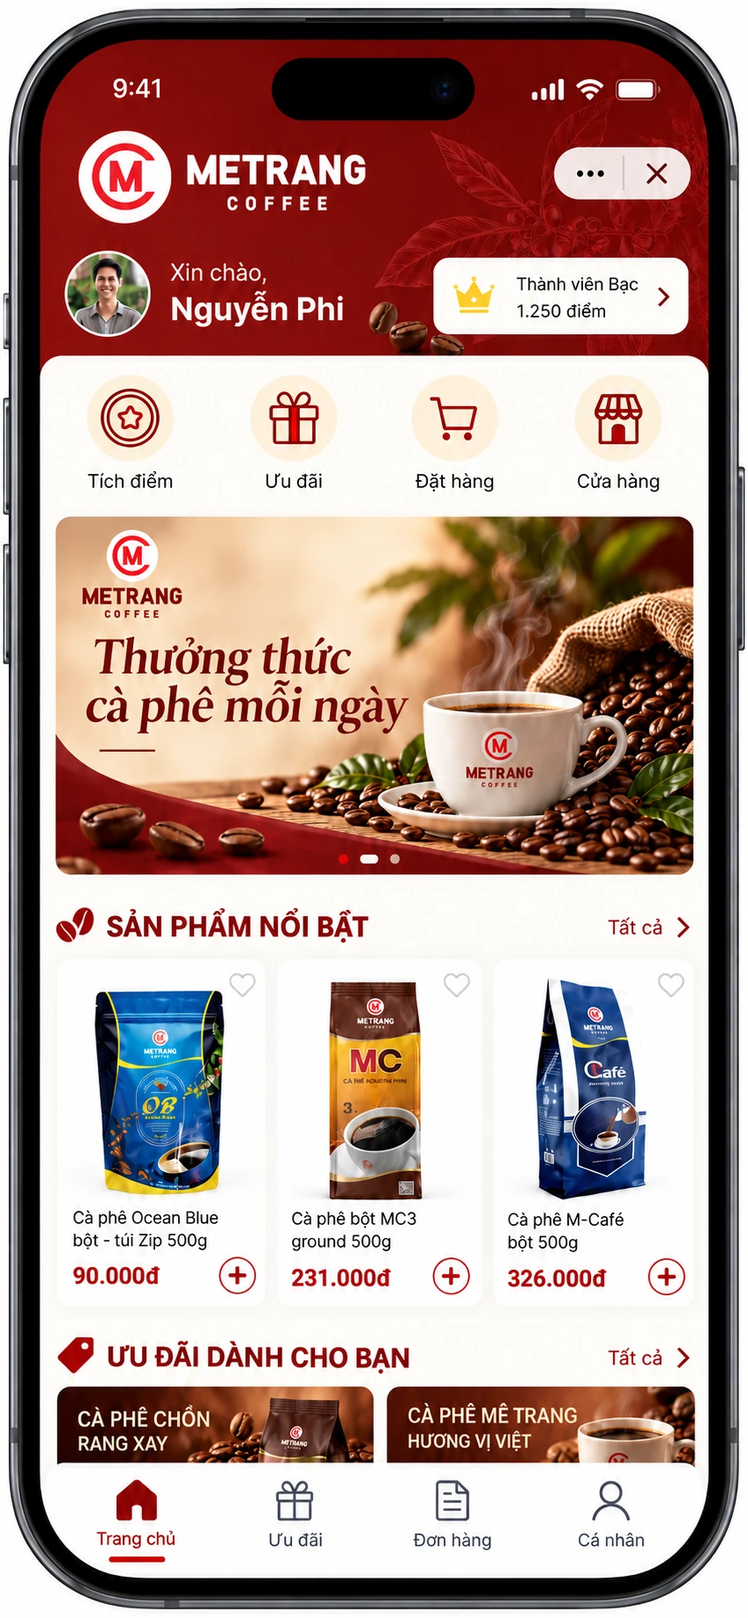
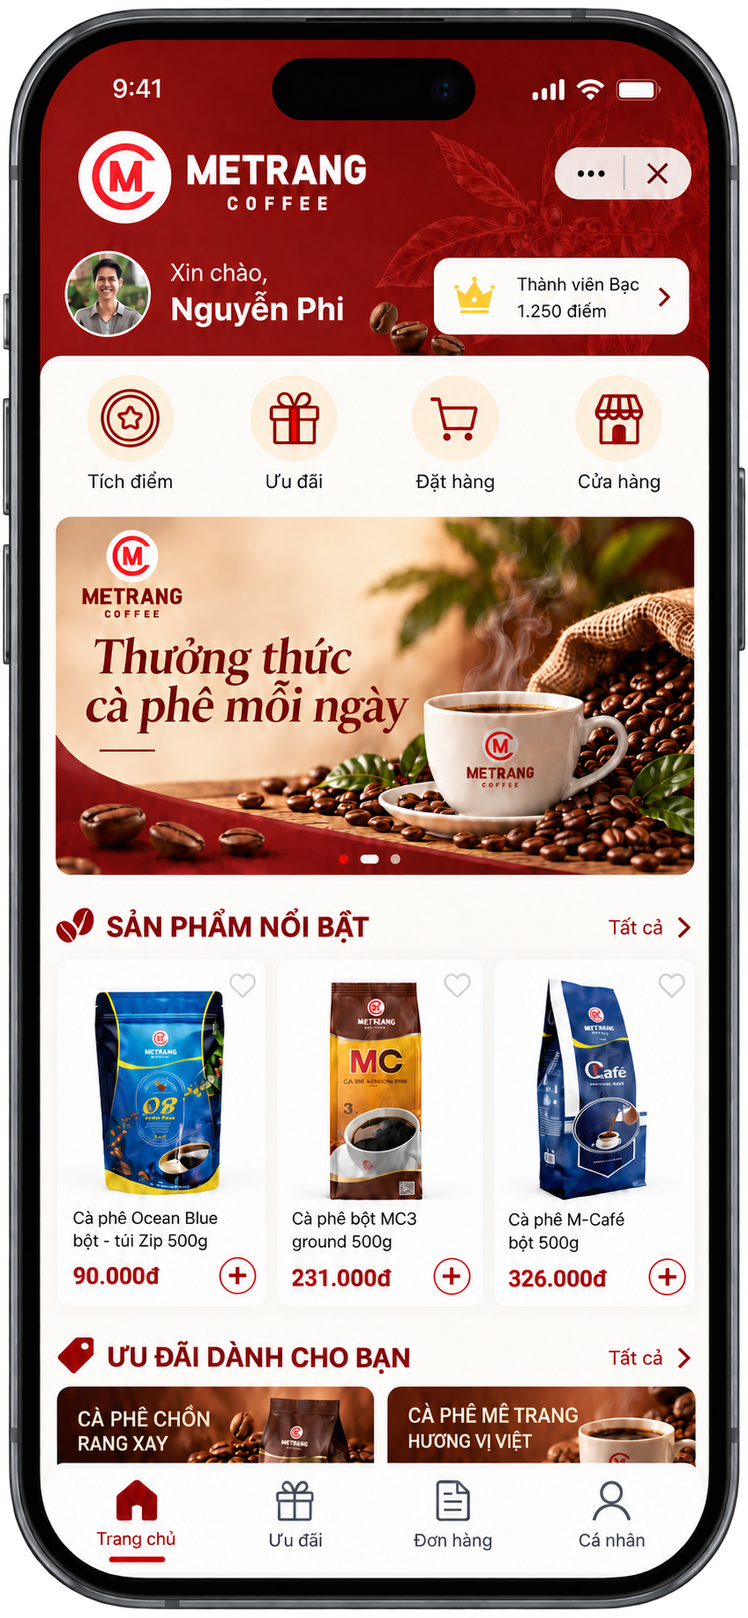
metrang v4

diff --git a/METRANG-COFFEE/index.html b/METRANG-COFFEE/index.html
@@ -96,6 +96,12 @@
     .hero-actions { display: flex; flex-wrap: wrap; gap: 12px; margin-top: 28px; }
     .hero-foot { margin-top: 32px; color: rgba(255,255,255,.6); font-size: .8rem; }
     .hero-visual { position: relative; display: grid; min-height: 490px; place-items: center; }
+    .hero-app-shot { position: relative; z-index: 2; display: block; width: min(100%,285px); transform: rotate(-3deg); filter: drop-shadow(0 26px 40px rgba(23,4,2,.3)); transition: transform .25s ease; }
+    .hero-app-shot:hover { transform: rotate(0) scale(1.02); }
+    .hero-app-shot img { width: 100%; height: auto; }
+    .tier-screen-visual { display: flex; justify-content: center; padding: 20px; border-radius: var(--radius-xl); background: radial-gradient(circle at 50% 40%,white 0 25%,transparent 68%),var(--cream); }
+    .tier-screen-visual a { display: block; width: min(100%,340px); }
+    .tier-screen-visual img { width: 100%; height: auto; }
     .hero-orbit { position: absolute; width: min(100%, 470px); aspect-ratio: 1; border: 1px solid rgba(255,255,255,.15); border-radius: 50%; }
     .hero-orbit::before,.hero-orbit::after { position: absolute; inset: 9%; border: 1px solid rgba(255,255,255,.12); border-radius: 50%; content: ""; }
     .hero-orbit::after { inset: 20%; }
@@ -153,7 +159,7 @@
     .tier-row em { margin-left: auto; color: var(--brand); font-size: .52rem; font-style: normal; font-weight: 800; }
 
     /* Section 1 */
-    .miniapp-layout { display: grid; grid-template-columns: 1fr .78fr; gap: clamp(35px,7vw,96px); align-items: center; }
+    .miniapp-layout { display: grid; grid-template-columns: 1fr; gap: 0; align-items: start; }
     .feature-list { display: grid; gap: 14px; margin-top: 26px; }
     .feature-row { display: grid; grid-template-columns: 44px 1fr; gap: 13px; align-items: start; }
     .feature-row .num { display: grid; width: 40px; height: 40px; place-items: center; border-radius: 13px; background: var(--brand-wash); color: var(--brand); font-weight: 900; }
@@ -162,7 +168,7 @@
     .device-stage { display: flex; justify-content: center; padding: 20px; border-radius: var(--radius-xl); background: radial-gradient(circle at 50% 40%,white 0 25%,transparent 68%),var(--cream); }
 
 
-    .miniapp-gallery { margin-top: 58px; }
+    .miniapp-gallery { margin-top: 36px; }
     .miniapp-gallery-head { display: flex; justify-content: space-between; gap: 24px; align-items: end; margin-bottom: 20px; }
     .miniapp-gallery-head h3 { margin: 0; color: var(--coffee); font-size: clamp(1.25rem,2.2vw,1.8rem); letter-spacing: -.035em; }
     .miniapp-gallery-head p { max-width: 470px; margin: 0; color: var(--muted); font-size: .88rem; }
@@ -239,7 +245,9 @@
     .rule-card i { color: var(--gold); font-style: normal; }
     .rule-card b { display: block; color: var(--coffee); font-size: .74rem; }
     .rule-card small { display: block; color: var(--muted); font-size: .64rem; }
-    .builder-side { display: grid; align-content: center; padding: 30px; background: var(--cream); }
+    .builder-side { display: grid; align-content: center; gap: 8px; padding: 24px; background: var(--cream); }
+    .cdp-offer-shot { display: block; overflow: hidden; border: 1px solid #dce3ef; border-radius: 14px; background: white; box-shadow: 0 14px 36px rgba(26,53,86,.14); }
+    .cdp-offer-shot img { display: block; width: 100%; height: auto; }
     .builder-side .phone { width: 230px; margin: 0 auto; transform: rotate(2deg); }
     .builder-side .phone-screen { min-height: 500px; }
     .offer-tile { margin: 0 12px 10px; padding: 13px; border: 1px solid #efdfd1; border-radius: 14px; background: white; }
@@ -255,7 +263,8 @@
     .game-section { overflow: hidden; background: var(--brand-deep); color: white; }
     .game-section .section-head p { color: rgba(255,255,255,.72); }
     .game-section .eyebrow { color: #f0c888; }
-    .game-grid { display: grid; grid-template-columns: .85fr 1.15fr; gap: clamp(35px,7vw,90px); align-items: center; }
+    .game-grid { display: grid; grid-template-columns: 1fr; gap: 0; align-items: start; }
+    .game-copy-grid { display: grid; grid-template-columns: .85fr 1.15fr; gap: clamp(24px,4vw,54px); align-items: start; }
     .game-visual { position: relative; display: flex; justify-content: center; gap: 18px; align-items: center; min-height: 500px; border-radius: var(--radius-xl); background: radial-gradient(circle at center,#a6342b 0,transparent 58%); }
     .game-card { width: 235px; padding: 9px; border-radius: 34px; background: #241a17; box-shadow: 0 24px 60px rgba(0,0,0,.32); }
     .game-screen { min-height: 446px; padding: 27px 17px; border-radius: 26px; background: linear-gradient(165deg,#fff6e9,#f3d7ba); color: var(--coffee); text-align: center; }
@@ -292,7 +301,7 @@
     .message-footnote { margin-top: 20px; color: var(--muted); font-size: .8rem; }
 
 
-    .automation-visuals { margin: 38px 0 28px; }
+    .automation-visuals { margin: 26px 0 28px; }
     .automation-visuals-head { display: flex; justify-content: space-between; align-items: end; gap: 20px; margin-bottom: 17px; }
     .automation-visuals-head h3 { margin: 0; color: var(--coffee); font-size: clamp(1.2rem,2.3vw,1.7rem); letter-spacing: -.035em; }
     .automation-visuals-head p { max-width: 440px; margin: 0; color: var(--muted); font-size: .84rem; }
@@ -329,11 +338,20 @@
     .pricing-notes { display: grid; grid-template-columns: 1fr 1fr; gap: 12px; margin-top: 16px; }
     .pricing-note { padding: 17px; border-radius: 15px; background: rgba(141,29,25,.055); color: #695950; font-size: .76rem; }
 
+    /* Same-page image lightbox */
+    .image-lightbox[hidden] { display: none; }
+    .image-lightbox { position: fixed; z-index: 1000; inset: 0; display: grid; place-items: center; padding: 24px; background: rgba(21,14,12,.88); }
+    .lightbox-dialog { position: relative; display: grid; max-width: min(96vw,1300px); max-height: 94svh; justify-items: center; gap: 10px; }
+    .lightbox-dialog img { display: block; max-width: 100%; max-height: 84svh; width: auto; height: auto; object-fit: contain; border-radius: 12px; background: white; box-shadow: 0 24px 90px rgba(0,0,0,.35); }
+    .lightbox-caption { color: white; font-size: .85rem; text-align: center; }
+    .lightbox-close { position: fixed; top: 16px; right: 20px; display: grid; width: 46px; height: 46px; place-items: center; border: 1px solid rgba(255,255,255,.4); border-radius: 50%; background: rgba(255,255,255,.14); color: white; font-size: 1.5rem; cursor: pointer; }
+    body.lightbox-open { overflow: hidden; }
+
     /* Footer, lightbox and responsive */
     .footer { padding: 60px var(--pad) 35px; background: #291915; color: white; }
     .footer-inner { display: flex; align-items: center; justify-content: space-between; gap: 25px; }
-    .footer .brand-word { color: white; }
-    .footer .brand-word small { color: #d8c2b5; }
+    .footer-cnv-lockup { display: inline-flex; width: 154px; flex: 0 0 auto; overflow: hidden; padding: 5px; border-radius: 9px; background: white; }
+    .footer-cnv-lockup img { display: block; width: 100%; height: auto; }
     .footer p { margin: 0; color: rgba(255,255,255,.62); font-size: .78rem; text-align: right; }
     .footer-thanks { margin: 55px 0 0; padding-top: 22px; border-top: 1px solid rgba(255,255,255,.13); color: #eed3b1; font-size: .75rem; font-weight: 850; letter-spacing: .14em; text-align: center; }
     @media (max-width: 980px) {
@@ -341,7 +359,7 @@
       .nav a:nth-child(3),.nav a:nth-child(4) { display: none; }
       .hero-grid { grid-template-columns: 1fr .8fr; padding: 48px; }
       .hero-visual { transform: scale(.88); }
-      .miniapp-layout,.tier-layout { gap: 38px; }
+      .tier-layout { gap: 38px; }
       .miniapp-screen-grid { grid-template-columns: repeat(3,minmax(0,1fr)); }
       .system-connection { grid-template-columns: 1fr; }
     }
@@ -359,13 +377,12 @@
       .hero-bubble.one { right: -5%; }
       .hero-bubble.two { left: -6%; }
       .section { padding: 76px 0; }
-      .miniapp-layout,.tier-layout,.game-grid { grid-template-columns: 1fr; }
+      .miniapp-layout,.tier-layout,.game-grid,.game-copy-grid { grid-template-columns: 1fr; }
       .miniapp-gallery-head { display: block; }
       .miniapp-gallery-head p { margin-top: 8px; }
       .miniapp-screen-grid { grid-template-columns: repeat(2,minmax(0,1fr)); gap: 10px; }
       .miniapp-screen-card { border-radius: 15px; }
       .miniapp-screen-card figcaption { padding: 10px 8px; font-size: .72rem; }
-      .miniapp-layout .device-stage { grid-row: 1; }
       .process-band { grid-template-columns: 1fr 1fr; }
       .process-step:not(:last-child)::after { display: none; }
       .connection-flow { grid-template-columns: 1fr; }
@@ -433,23 +450,7 @@
           </div>
           <div class="hero-visual" aria-label="Minh họa giao diện Zalo Mini App Metrang Coffee">
             <div class="hero-orbit"></div>
-            <div class="phone">
-              <div class="phone-screen">
-                <div class="phone-notch"></div><div class="phone-scroll">
-                  <div class="phone-status"><span>9:41</span><span>●●●  ▰</span></div>
-                  <div class="app-top"><div class="app-brand"><img src="assets/metrang-mark.webp" alt=""><span>METRANG COFFEE</span></div><div class="app-avatar">NP</div></div>
-                  <div class="app-greeting">Xin chào,<strong>Nguyễn Phi</strong></div>
-                  <div class="member-mini"><span class="label">Thành viên Metrang</span><strong>Hạng Bạc</strong><div class="points"><div><b>1.250</b><small> điểm tích lũy</small></div><small>Hồ sơ ›</small></div></div>
-                  <div class="quick-links"><div class="quick-link"><span class="quick-icon">✦</span>Ưu đãi</div><div class="quick-link"><span class="quick-icon">♙</span>Thành viên</div><div class="quick-link"><span class="quick-icon">▣</span>Đặt hàng</div><div class="quick-link"><span class="quick-icon">◎</span>Tin tức</div></div>
-                  <div class="app-section-title">Cà phê được yêu thích <a href="#miniapp">Xem tất cả ›</a></div>
-                  <div class="mini-products">
-                    <div class="mini-product"><img src="assets/ocean-blue.webp" alt="Cà phê Ocean Blue"><b>Ocean Blue bột</b><span>90.000₫</span></div>
-                    <div class="mini-product"><img src="assets/m-cafe.webp" alt="Cà phê M-Café"><b>M-Café bột</b><span>326.000₫</span></div>
-                  </div>
-                  <div class="app-tabbar"><div class="app-tab active"><span>⌂</span>Trang chủ</div><div class="app-tab"><span>▦</span>Sản phẩm</div><div class="app-tab"><span>♡</span>Ưu đãi</div><div class="app-tab"><span>♙</span>Cá nhân</div></div>
-                </div>
-              </div>
-            </div>
+            <a class="hero-app-shot" href="assets/miniapp-home.webp" aria-label="Xem ảnh giao diện Trang chủ Zalo Mini App Metrang Coffee"><img src="assets/miniapp-home.webp" alt="Màn hình Trang chủ Zalo Mini App Metrang Coffee" loading="eager"></a>
             <div class="hero-bubble one"><b>✦</b> Ưu đãi riêng cho thành viên</div>
             <div class="hero-bubble two"><b>↗</b> iPOS CRM kết nối CNV CDP</div>
           </div>
@@ -473,53 +474,23 @@
           </div>
           <p class="small-note note-spaced">Giao diện trong proposal là bản minh họa định hướng; nội dung và danh mục có thể được tinh chỉnh cùng Metrang.</p>
         </div>
-        <div class="device-stage">
-          <div class="phone">
-            <div class="phone-screen"><div class="phone-notch"></div><div class="phone-scroll">
-              <div class="phone-status"><span>9:41</span><span>●●●  ▰</span></div>
-              <div class="app-top"><div class="app-brand"><img src="assets/metrang-mark.webp" alt=""><span>METRANG COFFEE</span></div><div class="app-avatar">NP</div></div>
-              <div class="screen-title">Cà phê rang xay</div>
-              <div class="quick-links category-links"><div class="quick-link"><span class="quick-icon">☕</span>Rang xay</div><div class="quick-link"><span class="quick-icon">◉</span>Hạt rang</div><div class="quick-link"><span class="quick-icon">▤</span>Hòa tan</div><div class="quick-link"><span class="quick-icon">♨</span>Trà</div></div>
-              <div class="mini-products two-col-products">
-                <div class="mini-product"><img src="assets/ocean-blue.webp" alt="Cà phê Ocean Blue"><b>Ocean Blue bột</b><span>90.000₫</span></div>
-                <div class="mini-product"><img src="assets/m-cafe.webp" alt="Cà phê M-Café"><b>M-Café bột</b><span>326.000₫</span></div>
-                <div class="mini-product"><img src="assets/mc3.webp" alt="Cà phê MC3"><b>Cà phê MC3</b><span>231.000₫</span></div>
-                <div class="mini-product"><img src="assets/culi.webp" alt="Cà phê Culi"><b>Cà phê Culi hạt</b><span>252.000₫</span></div>
-              </div>
-              <div class="app-tabbar"><div class="app-tab"><span>⌂</span>Trang chủ</div><div class="app-tab active"><span>▦</span>Sản phẩm</div><div class="app-tab"><span>♡</span>Ưu đãi</div><div class="app-tab"><span>♙</span>Cá nhân</div></div>
-            </div></div>
-          </div>
-        </div>
+
       </div>
       <div class="container miniapp-gallery">
         <div class="miniapp-gallery-head"><h3>Năm màn hình tiêu biểu</h3><p>Minh họa các điểm chạm chính trong Zalo Mini App Metrang Coffee. Chọn ảnh để xem kích thước đầy đủ.</p></div>
         <div class="miniapp-screen-grid">
-          <figure class="miniapp-screen-card"><a href="assets/miniapp-home.webp" target="_blank" rel="noreferrer" aria-label="Mở ảnh màn hình Trang chủ kích thước đầy đủ"><img src="assets/miniapp-home.webp" alt="Giao diện Zalo Mini App Metrang Coffee: Trang chủ" loading="lazy"></a><figcaption><span>01</span>Trang chủ</figcaption></figure>
-          <figure class="miniapp-screen-card"><a href="assets/miniapp-products.webp" target="_blank" rel="noreferrer" aria-label="Mở ảnh màn hình Danh sách sản phẩm kích thước đầy đủ"><img src="assets/miniapp-products.webp" alt="Giao diện Zalo Mini App Metrang Coffee: Danh sách sản phẩm" loading="lazy"></a><figcaption><span>02</span>Danh sách sản phẩm</figcaption></figure>
-          <figure class="miniapp-screen-card"><a href="assets/miniapp-product-detail.webp" target="_blank" rel="noreferrer" aria-label="Mở ảnh màn hình Chi tiết sản phẩm kích thước đầy đủ"><img src="assets/miniapp-product-detail.webp" alt="Giao diện Zalo Mini App Metrang Coffee: Chi tiết sản phẩm" loading="lazy"></a><figcaption><span>03</span>Chi tiết sản phẩm</figcaption></figure>
-          <figure class="miniapp-screen-card"><a href="assets/miniapp-customer-profile.webp" target="_blank" rel="noreferrer" aria-label="Mở ảnh màn hình Thông tin khách hàng kích thước đầy đủ"><img src="assets/miniapp-customer-profile.webp" alt="Giao diện Zalo Mini App Metrang Coffee: Thông tin khách hàng" loading="lazy"></a><figcaption><span>04</span>Thông tin khách hàng</figcaption></figure>
-          <figure class="miniapp-screen-card"><a href="assets/miniapp-membership.webp" target="_blank" rel="noreferrer" aria-label="Mở ảnh màn hình Hạng thành viên kích thước đầy đủ"><img src="assets/miniapp-membership.webp" alt="Giao diện Zalo Mini App Metrang Coffee: Hạng thành viên" loading="lazy"></a><figcaption><span>05</span>Hạng thành viên</figcaption></figure>
+          <figure class="miniapp-screen-card"><a href="assets/miniapp-home.webp" aria-label="Mở ảnh màn hình Trang chủ kích thước đầy đủ"><img src="assets/miniapp-home.webp" alt="Giao diện Zalo Mini App Metrang Coffee: Trang chủ" loading="lazy"></a><figcaption><span>01</span>Trang chủ</figcaption></figure>
+          <figure class="miniapp-screen-card"><a href="assets/miniapp-products.webp" aria-label="Mở ảnh màn hình Danh sách sản phẩm kích thước đầy đủ"><img src="assets/miniapp-products.webp" alt="Giao diện Zalo Mini App Metrang Coffee: Danh sách sản phẩm" loading="lazy"></a><figcaption><span>02</span>Danh sách sản phẩm</figcaption></figure>
+          <figure class="miniapp-screen-card"><a href="assets/miniapp-product-detail.webp" aria-label="Mở ảnh màn hình Chi tiết sản phẩm kích thước đầy đủ"><img src="assets/miniapp-product-detail.webp" alt="Giao diện Zalo Mini App Metrang Coffee: Chi tiết sản phẩm" loading="lazy"></a><figcaption><span>03</span>Chi tiết sản phẩm</figcaption></figure>
+          <figure class="miniapp-screen-card"><a href="assets/miniapp-customer-profile.webp" aria-label="Mở ảnh màn hình Thông tin khách hàng kích thước đầy đủ"><img src="assets/miniapp-customer-profile.webp" alt="Giao diện Zalo Mini App Metrang Coffee: Thông tin khách hàng" loading="lazy"></a><figcaption><span>04</span>Thông tin khách hàng</figcaption></figure>
+          <figure class="miniapp-screen-card"><a href="assets/miniapp-membership.webp" aria-label="Mở ảnh màn hình Hạng thành viên kích thước đầy đủ"><img src="assets/miniapp-membership.webp" alt="Giao diện Zalo Mini App Metrang Coffee: Hạng thành viên" loading="lazy"></a><figcaption><span>05</span>Hạng thành viên</figcaption></figure>
         </div>
       </div>
     </section>
 
     <section class="section soft-section" id="member">
       <div class="container tier-layout">
-        <div class="device-stage">
-          <div class="phone">
-            <div class="phone-screen"><div class="phone-notch"></div><div class="phone-scroll">
-              <div class="phone-status"><span>9:41</span><span>●●●  ▰</span></div>
-              <div class="app-top"><div class="app-brand"><img src="assets/metrang-mark.webp" alt=""><span>METRANG COFFEE</span></div><div class="app-avatar">NP</div></div>
-              <div class="screen-title">Hạng thành viên của bạn</div>
-              <div class="points-card"><div class="tier"><span>✦ HẠNG BẠC</span><span>›</span></div><div class="points-big">1.250</div><small>Điểm tích lũy</small><div class="progress-track"><i></i></div><small class="points-next-note">Còn 750 điểm để tới hạng tiếp theo</small></div>
-              <div class="app-section-title tier-heading">Các hạng thành viên</div>
-              <div class="tier-list"><div class="tier-row"><span class="tier-icon">♙</span><div><b>Thành viên</b><small>Quyền lợi cơ bản</small></div><em>ĐÃ MỞ</em></div><div class="tier-row"><span class="tier-icon">✦</span><div><b>Bạc</b><small>Ưu đãi dành riêng</small></div><em>HIỆN TẠI</em></div><div class="tier-row"><span class="tier-icon">♛</span><div><b>Vàng</b><small>Đặc quyền nâng cao</small></div><em>750 điểm nữa</em></div></div>
-              <div class="app-section-title">Lịch sử điểm <a href="#member">Xem tất cả ›</a></div>
-              <div class="activity-row">Mua hàng tại cửa hàng <b>+120 điểm</b></div>
-              <div class="app-tabbar"><div class="app-tab"><span>⌂</span>Trang chủ</div><div class="app-tab"><span>▦</span>Sản phẩm</div><div class="app-tab"><span>♡</span>Ưu đãi</div><div class="app-tab active"><span>♙</span>Cá nhân</div></div>
-            </div></div>
-          </div>
-        </div>
+        <div class="tier-screen-visual"><a href="assets/miniapp-membership.webp" aria-label="Xem ảnh giao diện Hạng thành viên trên Zalo Mini App"><img src="assets/miniapp-membership.webp" alt="Màn hình Hạng thành viên của Zalo Mini App Metrang Coffee, hiển thị điểm, quyền lợi và các hạng" loading="lazy"></a></div>
         <div>
           <span class="section-number">02</span>
           <div class="section-head section-subhead space-below">
@@ -573,35 +544,27 @@
             <div class="admin-note">Luồng đồng bộ và cách nhân viên xác nhận voucher tại quầy cần được chốt theo cấu hình iPOS thực tế của Metrang.</div>
           </div>
           <div class="builder-side">
-            <div class="phone">
-              <div class="phone-screen"><div class="phone-notch"></div><div class="phone-scroll">
-                <div class="phone-status"><span>9:41</span><span>●●●  ▰</span></div><div class="app-top"><div class="app-brand"><img src="assets/metrang-mark.webp" alt=""><span>METRANG COFFEE</span></div><div class="app-avatar">NP</div></div>
-                <div class="screen-title">Ưu đãi của bạn</div>
-                <div class="offer-tile"><div class="offer-top"><span>METRANG MEMBER</span><span>ĐANG CÓ HIỆU LỰC</span></div><strong>Ưu đãi dành cho thành viên</strong><small>Áp dụng theo điều kiện chương trình</small><div class="offer-code">MTRG · 6SỐ</div><div class="qr-box"><span>QR MINH HỌA</span></div><small class="qr-instruction">Mở mã tại quầy để nhân viên kiểm tra</small></div>
-                <div class="offer-tile"><div class="offer-top"><span>ƯU ĐÃI MỚI</span><span>›</span></div><strong>Khám phá thêm quyền lợi</strong><small>Danh sách voucher đang áp dụng</small></div>
-                <div class="app-tabbar"><div class="app-tab"><span>⌂</span>Trang chủ</div><div class="app-tab"><span>▦</span>Sản phẩm</div><div class="app-tab active"><span>♡</span>Ưu đãi</div><div class="app-tab"><span>♙</span>Cá nhân</div></div>
-              </div></div>
-            </div>
-            <p class="small-note note-centered">Trang chủ → Ưu đãi → Danh sách voucher → Mở voucher có mã QR</p>
+            <a class="cdp-offer-shot" href="assets/cdp-offer-list.webp" aria-label="Xem ảnh giao diện Ưu đãi trong CNV CDP"><img src="assets/cdp-offer-list.webp" alt="Giao diện CNV CDP Loyalty, danh sách ưu đãi và nút Thêm ưu đãi" loading="lazy"></a>
+            <p class="small-note note-centered">Giao diện CNV CDP · khởi tạo và phát hành ưu đãi</p>
           </div>
         </div>
         <div class="voucher-offline">
           <div class="voucher-offline-head"><span class="tag">TRẢI NGHIỆM TẠI CỬA HÀNG OFFLINE</span><h3>Khách mở voucher, nhân viên quét mã tại quầy</h3><p>Minh họa lần lượt các thao tác của khách trên Zalo Mini App và bước xác nhận ưu đãi tại điểm bán.</p></div>
           <div class="voucher-offline-flow">
           <article class="voucher-offline-step">
-            <div class="voucher-step-art"><a href="assets/voucher-step-1-check.webp" target="_blank" rel="noreferrer" aria-label="Mở màn hình kiểm tra ưu đãi kích thước đầy đủ"><img src="assets/voucher-step-1-check.webp" alt="Trang chủ Zalo Mini App Metrang, khách chọn mục Ưu đãi để xem voucher có thể dùng tại cửa hàng" loading="lazy"></a></div>
+            <div class="voucher-step-art"><a href="assets/voucher-step-1-check.webp" aria-label="Mở màn hình kiểm tra ưu đãi kích thước đầy đủ"><img src="assets/voucher-step-1-check.webp" alt="Trang chủ Zalo Mini App Metrang, khách chọn mục Ưu đãi để xem voucher có thể dùng tại cửa hàng" loading="lazy"></a></div>
             <div class="voucher-step-copy"><div class="voucher-step-label"><span>01</span>KHÁCH THAO TÁC</div><h4>Kiểm tra ưu đãi</h4><p>Khách mở mục Ưu đãi trên Trang chủ Mini App để tìm các voucher đang có hiệu lực.</p></div>
           </article>
           <article class="voucher-offline-step">
-            <div class="voucher-step-art"><a href="assets/voucher-step-2-list.webp" target="_blank" rel="noreferrer" aria-label="Mở danh sách ưu đãi kích thước đầy đủ"><img src="assets/voucher-step-2-list.webp" alt="Danh sách Ưu đãi của tôi với voucher áp dụng tại cửa hàng và nút Sử dụng" loading="lazy"></a></div>
+            <div class="voucher-step-art"><a href="assets/voucher-step-2-list.webp" aria-label="Mở danh sách ưu đãi kích thước đầy đủ"><img src="assets/voucher-step-2-list.webp" alt="Danh sách Ưu đãi của tôi với voucher áp dụng tại cửa hàng và nút Sử dụng" loading="lazy"></a></div>
             <div class="voucher-step-copy"><div class="voucher-step-label"><span>02</span>KHÁCH THAO TÁC</div><h4>Mở Ưu đãi của tôi</h4><p>Khách chọn voucher có nhãn áp dụng tại cửa hàng và bấm Sử dụng.</p></div>
           </article>
           <article class="voucher-offline-step">
-            <div class="voucher-step-art"><a href="assets/voucher-step-3-code.webp" target="_blank" rel="noreferrer" aria-label="Mở mã voucher kích thước đầy đủ"><img src="assets/voucher-step-3-code.webp" alt="Màn hình mã barcode và QR của voucher Metrang để khách xuất trình tại quầy" loading="lazy"></a></div>
+            <div class="voucher-step-art"><a href="assets/voucher-step-3-code.webp" aria-label="Mở mã voucher kích thước đầy đủ"><img src="assets/voucher-step-3-code.webp" alt="Màn hình mã barcode và QR của voucher Metrang để khách xuất trình tại quầy" loading="lazy"></a></div>
             <div class="voucher-step-copy"><div class="voucher-step-label"><span>03</span>KHÁCH THAO TÁC</div><h4>Xuất trình mã ưu đãi</h4><p>Mini App hiển thị barcode/QR để khách đưa nhân viên tại quầy kiểm tra.</p></div>
           </article>
           <article class="voucher-offline-step wide">
-            <div class="voucher-step-art"><a href="assets/voucher-step-4-scan.webp" target="_blank" rel="noreferrer" aria-label="Mở ảnh nhân viên quét mã voucher tại quầy kích thước đầy đủ"><img src="assets/voucher-step-4-scan.webp" alt="Nhân viên Metrang dùng máy quét tại quầy để quét mã voucher trên điện thoại của khách" loading="lazy"></a></div>
+            <div class="voucher-step-art"><a href="assets/voucher-step-4-scan.webp" aria-label="Mở ảnh nhân viên quét mã voucher tại quầy kích thước đầy đủ"><img src="assets/voucher-step-4-scan.webp" alt="Nhân viên Metrang dùng máy quét tại quầy để quét mã voucher trên điện thoại của khách" loading="lazy"></a></div>
             <div class="voucher-step-copy"><div class="voucher-step-label"><span>04</span>NHÂN VIÊN TẠI QUẦY</div><h4>Quét mã và áp dụng voucher</h4><p>Nhân viên quét mã trên điện thoại khách để kiểm tra điều kiện, xác nhận ưu đãi và áp dụng vào hóa đơn offline.</p></div>
           </article>
           </div>
@@ -618,17 +581,13 @@
           <p>Một hoạt động tương tác trong Mini App giúp khách có lý do quay lại, tham gia chương trình và nhận ưu đãi theo điều kiện Metrang thiết lập.</p>
         </div>
         <figure class="game-flow-figure">
-          <a href="assets/game-voucher-flow.webp" target="_blank" rel="noreferrer" aria-label="Mở ảnh minh họa luồng chơi game nhận voucher kích thước đầy đủ">
+          <a href="assets/game-voucher-flow.webp" aria-label="Mở ảnh minh họa luồng chơi game nhận voucher kích thước đầy đủ">
             <img src="assets/game-voucher-flow.webp" alt="Luồng chơi game nhận voucher trên Zalo Mini App Metrang: vào Mini App, cho phép truy cập, quay vòng quay và nhận voucher lưu vào Ưu đãi của tôi" loading="lazy">
           </a>
           <figcaption>Luồng minh họa: vào Mini App → cho phép truy cập → quay vòng quay → nhận voucher trong mục Ưu đãi của tôi</figcaption>
         </figure>
         <div class="game-grid">
-          <div class="game-visual">
-            <div class="game-card"><div class="game-screen"><div class="game-brand">METRANG COFFEE</div><div class="game-cup">☕</div><h3>Vòng quay<br>thân quen</h3><p>Thử vận may và khám phá ưu đãi dành cho bạn</p><span class="btn game-button">QUAY NGAY</span></div></div>
-            <div class="game-wheel"><span>GO</span></div>
-          </div>
-          <div>
+          <div class="game-copy-grid">
             <div class="game-result"><span class="tag">MÀN HÌNH KẾT QUẢ · VOUCHER</span><b>Chúc mừng! Bạn nhận được một ưu đãi.</b><p>Voucher được lưu vào danh sách Ưu đãi trên Mini App để khách mở mã QR khi tới cửa hàng.</p></div>
             <div class="game-detail"><div><span>1</span><div>Khách mở trò chơi từ Trang chủ hoặc thông điệp chiến dịch.</div></div><div><span>2</span><div>CDP có thể cấp lượt chơi theo điều kiện và nhóm khách phù hợp.</div></div><div><span>3</span><div>Kết quả hợp lệ được gắn với quyền lợi/voucher đã cấu hình.</div></div><div><span>4</span><div>Khách xem voucher trong Mini App và đưa mã cho nhân viên tại quầy.</div></div></div>
             <p class="small-note note-game">Gamification là add-on trong báo giá. Cơ chế trò chơi, số lượt và danh sách phần thưởng sẽ được xác nhận trước khi triển khai.</p>
@@ -645,19 +604,13 @@
           <h2>Gửi đúng lời nhắn vào đúng thời điểm</h2>
           <p>Kịch bản được kích hoạt từ hồ sơ, giao dịch, điểm, hạng hoặc hành vi Mini App được kết nối. Nội dung dưới đây là bản mẫu để định hướng cách giao tiếp.</p>
         </div>
-        <div class="message-grid">
-          <article class="message-card"><div class="message-meta"><b>Chúc mừng sinh nhật</b><span class="message-channel">Zalo OA / ZNS / Mini App</span></div><div class="chat-bubble">Chúc mừng sinh nhật <strong>Nguyễn Phi</strong>! 🎂<br><br>Metrang gửi bạn một món quà nhỏ để tháng sinh nhật thêm trọn vị. Mở Mini App để nhận voucher ưu đãi của bạn nhé.<br><a class="chat-cta" href="#voucher">Nhận voucher sinh nhật</a></div><div class="trigger"><i></i>Kích hoạt theo ngày sinh trong hồ sơ thành viên</div></article>
-          <article class="message-card"><div class="message-meta"><b>Thông báo lên hạng</b><span class="message-channel">Zalo OA / ZNS / Mini App</span></div><div class="chat-bubble">Chúc mừng <strong>Nguyễn Phi</strong> đã trở thành thành viên <strong>hạng Vàng</strong> của Metrang! ✨<br><br>Quyền lợi mới đã được cập nhật trong hồ sơ thành viên. Ghé Mini App để xem điểm và ưu đãi dành riêng cho bạn.<br><a class="chat-cta" href="#member">Xem quyền lợi thành viên</a></div><div class="trigger"><i></i>Kích hoạt khi điểm/hạng thay đổi</div></article>
-          <article class="message-card"><div class="message-meta"><b>Chào mừng thành viên mới</b><span class="message-channel">Zalo OA / Mini App</span></div><div class="chat-bubble">Chào mừng <strong>Nguyễn Phi</strong> đến với cộng đồng Metrang Coffee! ☕<br><br>Thông tin thành viên, điểm tích lũy và các ưu đãi của bạn đã sẵn sàng. Khám phá Mini App để bắt đầu hành trình cùng Metrang.<br><a class="chat-cta" href="#miniapp">Mở Mini App</a></div><div class="trigger"><i></i>Kích hoạt sau khi khách đăng ký thành viên</div></article>
-          <article class="message-card"><div class="message-meta"><b>Mời khách quay lại</b><span class="message-channel">Zalo OA / ZNS</span></div><div class="chat-bubble">Metrang nhớ bạn, <strong>Nguyễn Phi</strong>! ☕<br><br>Lâu rồi mình chưa gặp nhau. Ghé Metrang thưởng thức ly cà phê yêu thích và xem ưu đãi hiện có dành cho bạn nhé.<br><a class="chat-cta" href="#voucher">Xem ưu đãi</a></div><div class="trigger"><i></i>Kích hoạt khi khách không phát sinh giao dịch trong khoảng thời gian đã chọn</div></article>
-        </div>
         <div class="automation-visuals">
           <div class="automation-visuals-head"><h3>Bốn kịch bản chăm sóc tự động</h3><p>Minh họa điều kiện nhận diện khách hàng, nội dung tin nhắn và mục tiêu của từng kịch bản.</p></div>
           <div class="automation-visual-grid">
-          <figure class="automation-visual-card"><a href="assets/automation-new-member.webp" target="_blank" rel="noreferrer" aria-label="Mở ảnh Chào mừng thành viên mới kích thước đầy đủ"><img src="assets/automation-new-member.webp" alt="Minh họa tự động hóa CNV CDP cho Metrang Coffee: Chào mừng thành viên mới. Kích hoạt khi khách đăng ký thành viên trên Mini App." loading="lazy"></a><figcaption><span>01</span><div><b>Chào mừng thành viên mới</b><small>Kích hoạt khi khách đăng ký thành viên trên Mini App.</small></div></figcaption></figure>
-          <figure class="automation-visual-card"><a href="assets/automation-birthday.webp" target="_blank" rel="noreferrer" aria-label="Mở ảnh Chúc mừng sinh nhật kích thước đầy đủ"><img src="assets/automation-birthday.webp" alt="Minh họa tự động hóa CNV CDP cho Metrang Coffee: Chúc mừng sinh nhật. Gửi lời chúc và voucher ưu đãi trong tháng sinh nhật." loading="lazy"></a><figcaption><span>02</span><div><b>Chúc mừng sinh nhật</b><small>Gửi lời chúc và voucher ưu đãi trong tháng sinh nhật.</small></div></figcaption></figure>
-          <figure class="automation-visual-card"><a href="assets/automation-tier-upgrade.webp" target="_blank" rel="noreferrer" aria-label="Mở ảnh Thông báo lên hạng Vàng kích thước đầy đủ"><img src="assets/automation-tier-upgrade.webp" alt="Minh họa tự động hóa CNV CDP cho Metrang Coffee: Thông báo lên hạng Vàng. Gửi tự động khi khách đạt mốc chi tiêu và lên hạng." loading="lazy"></a><figcaption><span>03</span><div><b>Thông báo lên hạng Vàng</b><small>Gửi tự động khi khách đạt mốc chi tiêu và lên hạng.</small></div></figcaption></figure>
-          <figure class="automation-visual-card"><a href="assets/automation-winback-60d.webp" target="_blank" rel="noreferrer" aria-label="Mở ảnh Mời khách quay lại sau 60 ngày kích thước đầy đủ"><img src="assets/automation-winback-60d.webp" alt="Minh họa tự động hóa CNV CDP cho Metrang Coffee: Mời khách quay lại sau 60 ngày. Gợi nhắc khách quay lại với voucher cá nhân hóa." loading="lazy"></a><figcaption><span>04</span><div><b>Mời khách quay lại sau 60 ngày</b><small>Gợi nhắc khách quay lại với voucher cá nhân hóa.</small></div></figcaption></figure>
+          <figure class="automation-visual-card"><a href="assets/automation-new-member.webp" aria-label="Mở ảnh Chào mừng thành viên mới kích thước đầy đủ"><img src="assets/automation-new-member.webp" alt="Minh họa tự động hóa CNV CDP cho Metrang Coffee: Chào mừng thành viên mới. Kích hoạt khi khách đăng ký thành viên trên Mini App." loading="lazy"></a><figcaption><span>01</span><div><b>Chào mừng thành viên mới</b><small>Kích hoạt khi khách đăng ký thành viên trên Mini App.</small></div></figcaption></figure>
+          <figure class="automation-visual-card"><a href="assets/automation-birthday.webp" aria-label="Mở ảnh Chúc mừng sinh nhật kích thước đầy đủ"><img src="assets/automation-birthday.webp" alt="Minh họa tự động hóa CNV CDP cho Metrang Coffee: Chúc mừng sinh nhật. Gửi lời chúc và voucher ưu đãi trong tháng sinh nhật." loading="lazy"></a><figcaption><span>02</span><div><b>Chúc mừng sinh nhật</b><small>Gửi lời chúc và voucher ưu đãi trong tháng sinh nhật.</small></div></figcaption></figure>
+          <figure class="automation-visual-card"><a href="assets/automation-tier-upgrade.webp" aria-label="Mở ảnh Thông báo lên hạng Vàng kích thước đầy đủ"><img src="assets/automation-tier-upgrade.webp" alt="Minh họa tự động hóa CNV CDP cho Metrang Coffee: Thông báo lên hạng Vàng. Gửi tự động khi khách đạt mốc chi tiêu và lên hạng." loading="lazy"></a><figcaption><span>03</span><div><b>Thông báo lên hạng Vàng</b><small>Gửi tự động khi khách đạt mốc chi tiêu và lên hạng.</small></div></figcaption></figure>
+          <figure class="automation-visual-card"><a href="assets/automation-winback-60d.webp" aria-label="Mở ảnh Mời khách quay lại sau 60 ngày kích thước đầy đủ"><img src="assets/automation-winback-60d.webp" alt="Minh họa tự động hóa CNV CDP cho Metrang Coffee: Mời khách quay lại sau 60 ngày. Gợi nhắc khách quay lại với voucher cá nhân hóa." loading="lazy"></a><figcaption><span>04</span><div><b>Mời khách quay lại sau 60 ngày</b><small>Gợi nhắc khách quay lại với voucher cá nhân hóa.</small></div></figcaption></figure>
           </div>
         </div>
         <p class="message-footnote">Kênh gửi, mẫu tin, voucher đi kèm và ngưỡng thời gian sẽ được cấu hình theo quyền sử dụng Zalo, dữ liệu iPOS và mục tiêu chiến dịch của Metrang.</p>
@@ -694,9 +647,44 @@
 
   <footer class="footer">
     <div class="container">
-      <div class="footer-inner"><a class="brand-lockup" href="#top"><img class="brand-mark" src="assets/metrang-mark.webp" alt="Metrang Coffee"><span class="brand-word">METRANG<small>COFFEE</small></span></a><p>Đề xuất giải pháp Loyalty & CDP<br>CNV Holdings · 094.3452.098 · phinv1@cnv.vn</p></div>
+      <div class="footer-inner"><a class="footer-cnv-lockup" href="#top" aria-label="CNV CDP"><img src="assets/cnv-cdp-logo.png" alt="CNV CDP — Your partner in growth"></a><p>Đề xuất giải pháp Loyalty & CDP<br>CNV Holdings · 094.3452.098 · phinv1@cnv.vn</p></div>
       <div class="footer-thanks">TRÂN TRỌNG CẢM ƠN QUÝ KHÁCH</div>
     </div>
   </footer>
+  <div class="image-lightbox" id="image-lightbox" hidden role="dialog" aria-modal="true" aria-label="Xem ảnh phóng to">
+    <button class="lightbox-close" type="button" aria-label="Đóng ảnh">×</button>
+    <div class="lightbox-dialog"><img src="" alt=""><div class="lightbox-caption" aria-live="polite"></div></div>
+  </div>
+  <script>
+    (() => {
+      const modal = document.getElementById('image-lightbox');
+      const preview = modal.querySelector('img');
+      const caption = modal.querySelector('.lightbox-caption');
+      const closeButton = modal.querySelector('.lightbox-close');
+      let returnFocus = null;
+      const close = () => {
+        modal.hidden = true;
+        document.body.classList.remove('lightbox-open');
+        preview.removeAttribute('src');
+        if (returnFocus) returnFocus.focus();
+      };
+      document.addEventListener('click', (event) => {
+        const link = event.target.closest('a[href^="assets/"]');
+        if (!link || !link.querySelector('img')) return;
+        event.preventDefault();
+        const image = link.querySelector('img');
+        returnFocus = link;
+        preview.src = link.getAttribute('href');
+        preview.alt = image.alt || '';
+        caption.textContent = link.closest('figure')?.querySelector('figcaption')?.innerText || image.alt || '';
+        modal.hidden = false;
+        document.body.classList.add('lightbox-open');
+        closeButton.focus();
+      });
+      closeButton.addEventListener('click', close);
+      modal.addEventListener('click', (event) => { if (event.target === modal) close(); });
+      document.addEventListener('keydown', (event) => { if (event.key === 'Escape' && !modal.hidden) close(); });
+    })();
+  </script>
 </body>
 </html>
